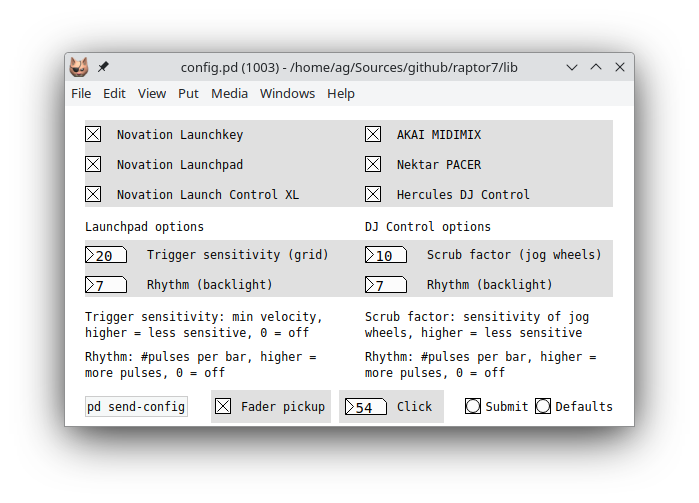
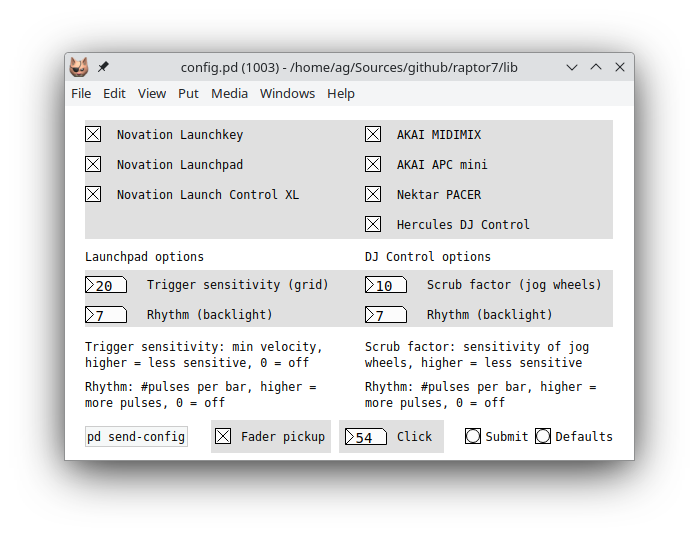
Update documentation.

Changed region(s): [[0.0901, 0.0895, 0.9013, 0.8648]]

diff --git a/README.md b/README.md
@@ -193,11 +193,11 @@ Beyond MIDI learn, Raptor also offers special support for some widespread contro
 
 #### Device Configuration
 
-For now, the special device drivers included in Raptor all work nicely together, so we have them all enabled by default. But you can easily turn them off using the `config` patch which you can find in Raptor's `init` subpatch. Click on the patch to open it. It contains the dialog shown below. The toggles for the device drivers are in the upper half. In the lower half, you can configure some device-specific parameters for the Novation Launchpad and the Hercules DJ Control. You can submit your changes to Raptor at any time by pressing the `Submit` button, or revert to the factory settings with the `Defaults` button. This affects all running Raptor instances. You can also make your changes permanent by just saving the config patch, so that your custom settings will be reloaded the next time you launch Raptor.
+For now, the special device drivers included in Raptor work together quite nicely, so we have them all enabled by default. But you can easily turn them off using the `config` patch which you can find in Raptor's `init` subpatch. Click on the patch to open it. It contains the dialog shown below. The toggles for the device drivers are in the upper half. In the lower half, you can configure some device-specific parameters for the Novation Launchpad and the Hercules DJ Control. You can submit your changes to Raptor at any time by pressing the `Submit` button, or revert to the factory settings with the `Defaults` button. This affects all running Raptor instances. You can also make your changes permanent by just saving the config patch, so that your custom settings will be reloaded the next time you launch Raptor.
 
 Note that disabling a driver doesn't make the device go away. Only the special processing of the device driver (including MIDI feedback, see below) will be suspended. The device itself will continue to function as a standard MIDI controller, thus it can still send MIDI data and initiate parameter changes via the MIDI learn facility, unless you really disconnect the device from Raptor's input.
 
-<img src="doc/config.png" alt="config" style="zoom:70%;" />
+<img src="doc/config.png" alt="config" style="zoom:80%;" />
 
 #### Pickup Mode
 
@@ -213,14 +213,15 @@ One interesting form of feedback provided by the Novation Launchpad and Hercules
 
 The following table summarizes the currently supported controllers and lists their MIDI port numbers, feedback capabilities, and the names of the accompanying MIDI map files in the data subdirectory. More details can be found in the subsections below.
 
-| Device                     | I/O Port #    | Feedback                   | MIDI Map          |
-| -------------------------- | ------------- | -------------------------- | ----------------- |
-| Novation Launchpad         | **3** / **4** | required, 2 separate ports | launchpad.map     |
-| Novation Launchkey         | 1* + 2        | yes (recommended)          | launchkey.map     |
-| Novation Launch Control XL | 2             | yes (optional)             | launchcontrol.map |
-| AKAI Professional MIDIMIX  | 2             | yes (optional)             | midimix.map       |
-| Nektar PACER               | 2*            | no                         | pacer.map         |
-| Hercules DJ Control        | 2             | yes (recommended)          | djcontrol.map     |
+| Device                         | I/O Port #       | Feedback                   | MIDI Map          |
+| ------------------------------ | ---------------- | -------------------------- | ----------------- |
+| Novation Launchpad             | **3**/**4**      | required, 2 separate ports | launchpad.map     |
+| Novation Launchkey             | 1* + 2           | yes (recommended)          | launchkey.map     |
+| Novation Launch Control XL     | 2                | yes (optional)             | launchcontrol.map |
+| AKAI Professional MIDIMIX      | 2                | yes (optional)             | midimix.map       |
+| AKAI Professional APC mini mk2 | **3**/**4** + 1* | yes (recommended)          | apcmini.map       |
+| Nektar PACER                   | 2*               | no                         | pacer.map         |
+| Hercules DJ Control            | 2                | yes (recommended)          | djcontrol.map     |
 
 \* = input only
 
@@ -234,7 +235,7 @@ You can find the patchbay in the init subpatch of the main Raptor patch. Click o
 
 There are two routing matrices, inputs on the left and outputs on the right. You can also recall the default setup, or save and later reload your own custom setup with the buttons at the bottom of the subpatch. Your custom setup will also be recalled when Raptor launches.
 
-The columns 1-4 in each routing matrix denote your first four physical Pd MIDI ports, while the rows correspond to your virtual ports for your primary keyboard/synth I/O, labeled "Keys/Synth #1", as well as three controller I/O ports labeled "Control #2" to "Control #4". In the current implementation, Control #3 and #4 are both reserved for Launchpad devices, while Control #2 is to be used with all the other drivers.
+The columns 1-4 in each routing matrix denote your first four physical Pd MIDI ports, while the rows correspond to your virtual ports for your primary keyboard/synth I/O, labeled "Keys/Synth #1", as well as three controller I/O ports labeled "Control #2" to "Control #4". In the current implementation, Control #3 and #4 are both reserved for Launchpad and APC mini devices, while Control #2 is to be used with all the other drivers.
 
 Note that each physical port 1-4 can only be connected to a single virtual port, or be disconnected from the virtual ports by clicking in the topmost row labeled "-Off-". Also note that the "-Off-" option doesn't really disconnect a device from Pd, it only disconnects a port from Raptor's internal processing.
 
@@ -254,7 +255,7 @@ On the Launchpad, Raptor's five fader banks have distinct colors: 1 Volume - red
 
 Note that the button labels on the Launchpad Pro and X do not really indicate the type of parameters the faders are bound to, so you'll have to consult the cheat sheet to find out what the actual controls are. The fader positions shown on the device will always reflect the current parameter values in the Raptor patch. If you're running multiple Raptor instances, that will be the values in the selected Raptor instance, or the values of the time master, if no Raptor instance is selected. The values are also updated live while switching instances, or if a value is changed in the patch (or via some other connected controller).
 
-**IMPORTANT:** In contrast to the other controllers, this device needs to be connected to its own MIDI port, port 3 or 4, on *both* input and output, so that the device is properly recognized by the driver. Raptor reserves both ports 3 and 4 for use with the Launchpad, so that you can connect two different devices at the same time and have them work nicely together. This is necessary since the Launchpad driver needs to maintain a certain amount of state information about each device. It is possible to connect two or more devices *of the same model* to the same port, however, and have them operate in lockstep. But different models must *always* be connected to different ports. That's because there are some variations (or outright incompatibilities) of Novation's MIDI protocol for different models that the driver needs to accommodate. The driver will warn you at startup if it detects any such conflicts. In this case the conflicting models will have their session mode disabled, but you can still use them as standard MIDI controllers for MIDI note and CC input.
+**IMPORTANT:** In contrast to most of the other controllers, this device needs to be connected to its own MIDI port, port 3 or 4, on *both* input and output, so that the device is properly recognized by the driver. Raptor reserves both ports 3 and 4 for use with the Launchpad, so that you can connect two different devices at the same time and have them work nicely together. This is necessary since the Launchpad driver needs to maintain a certain amount of state information about each device. It is possible to connect two or more devices *of the same model* to the same port, however, and have them operate in lockstep. But different models must *always* be connected to different ports. That's because there are some variations (or outright incompatibilities) of Novation's MIDI protocol for different models that the driver needs to accommodate. The driver will warn you at startup if it detects any such conflicts. In this case the conflicting models will have their session mode disabled, but you can still use them as standard MIDI controllers for MIDI note and CC input.
 
 #### Novation Launchkey
 
@@ -286,6 +287,18 @@ Note that both types of bindings are only in effect as long as you press the "De
 The [AKAI MIDIMIX][] is a popular (and more budget-friendly) alternative to the Launch Control XL with a very similar layout. Raptor's support consists of a MIDI mapping and some hard-wired bindings for switching Raptor instances. These assume that the device uses the factory configuration. A description of the mapping, which aims to be as similar as possible to the Launch Control XL, can be found in the *midimix.map* file in the data directory. To use this mapping, load the map file and make sure that the MIDIMIX is connected to Pd's second MIDI input.
 
 The MIDIMIX lacks a dedicated device select button, so the SOLO button is used for selecting Raptor instances instead. To do this, press (and hold) the SOLO button, while you push the BANK LEFT and RIGHT buttons to cycle through the Raptor instances, or the buttons labeled 1-8 in the bottom row, right above the faders, to directly change to the corresponding instance (or switch back to "omni" if the given instance was already selected). If the controller is connected to Pd's second output port, Raptor will highlight the selected instance on the 1-8 button row while the SOLO button is pressed.
+
+#### AKAI Professional APC mini mk2
+
+The [AKAI APC mini mk2][] is to the Launchpad what the MIDIMIX is to the Launch Control XL: A more budget-friendly alternative providing similar, if more limited, functionality. It doesn't appear to be as popular as the Launchpads, but it's still a good controller, easy to use, and works very well as a control surface for Raptor, too. The 8x8 pads, while not velocity-sensitive, have full RGB coloring, and the device also has nine physical faders below the launch grid, which some might even prefer over the virtual faders of the Launchpad.
+
+Note that the mk2 version of the device is required; the original APC mini is incompatible and thus not supported by this implementation. Similar to the Launchpad, you need to connect the Control port of the APC mini mk2 to either port 3 or 4, on both input and output. Also make sure that you don't already have a Launchpad on the same pair of ports, as the two devices are incompatible. If you want to utilize the built-in note mode of the device, you'll also have to connect the Notes port to Pd's first input port. (The driver supports only a single APC mini mk2 at present, but you can still run a Launchpad in tandem with it if you connect the Launchpad to the other port.)
+
+Usage is pretty much the same as with the Launchpad, please check the MIDI map in data/apcmini.map for details. You have the same four fader banks as on the Launchpad, Launch Control XL, and the MIDIMIX. Use the FADER CTRL buttons to switch between these. You may want to refer to the cheat sheet in [doc/raptor7-cheatsheet.pdf][] for an overview of controls in the fader banks (as well as the default pad assignments in session view, discussed below). The ninth fader is hard-wired to the volume controller (CC7), like on the bigger Launchkey controllers, and can be used to control the master volume of your synth.
+
+As usual, the arrow buttons can be used to select presets (up, down) and Raptor instances (left, right). If you press the SHIFT button, you can use the same eight buttons to directly change to the corresponding instance (or switch back to "omni" if the given instance was already selected), with the currently selected instance being highlighted as long as you hold the SHIFT button.
+
+The driver switches the device to session mode at startup. The session grid has the same default pad assignments in the two bottom rows as the Launchpad, using the same color-coding, and the entire grid is mappable. You can also switch between session mode and the built-in note and drum modes of the APC mini mk2 by pressing SHIFT along with the NOTE and DRUM buttons in the strip of scene launch buttons on the right. In DRUM mode, you have the same layout of four 4x4 grids in different colors as on the Launchpad, with note 36 in the lower-left corner.
 
 #### Nektar PACER
 
@@ -331,7 +344,7 @@ Raptor's MIDI learn facility, while simple to use, is fairly basic as well. It's
 
 Also, there's no support for macro controls yet. It would make some sense to add this now that we have the capability to configure inverted mappings. But it would also make the interaction with the MIDI learn facility more complicated, so some effort will be needed to keep things as simple as possible when we add this.
 
-On the positive side, Raptor's MIDI map files are just Lua tables and their structure is fairly simple, so it's not too hard to process them in Lua, or even generate the data from map file formats of other programs.
+On the positive side, Raptor's MIDI map files are just Lua tables and their structure is fairly simple, so it shouldn't be too hard to process them in Lua, or even generate the data from map file formats of other programs.
 
 ### Controller Support
 
@@ -359,6 +372,7 @@ Device management is another area where Raptor still has room for improvements. 
 [Novation Launchkey]: https://novationmusic.com/launchkey
 [Novation Launch Control XL]: https://novationmusic.com/products/launch-control-xl
 [AKAI MIDIMIX]: https://www.akaipro.com/midimix
+[AKAI APC mini mk2]: https://www.akaipro.com/apc-mini-mk2.html
 [Nektar PACER]: https://nektartech.com/pacer-midi-daw-footswitch-controller/
 [Ableton Link]: https://www.ableton.com/link/
 [bug report]: https://github.com/agraef/raptor7/issues
